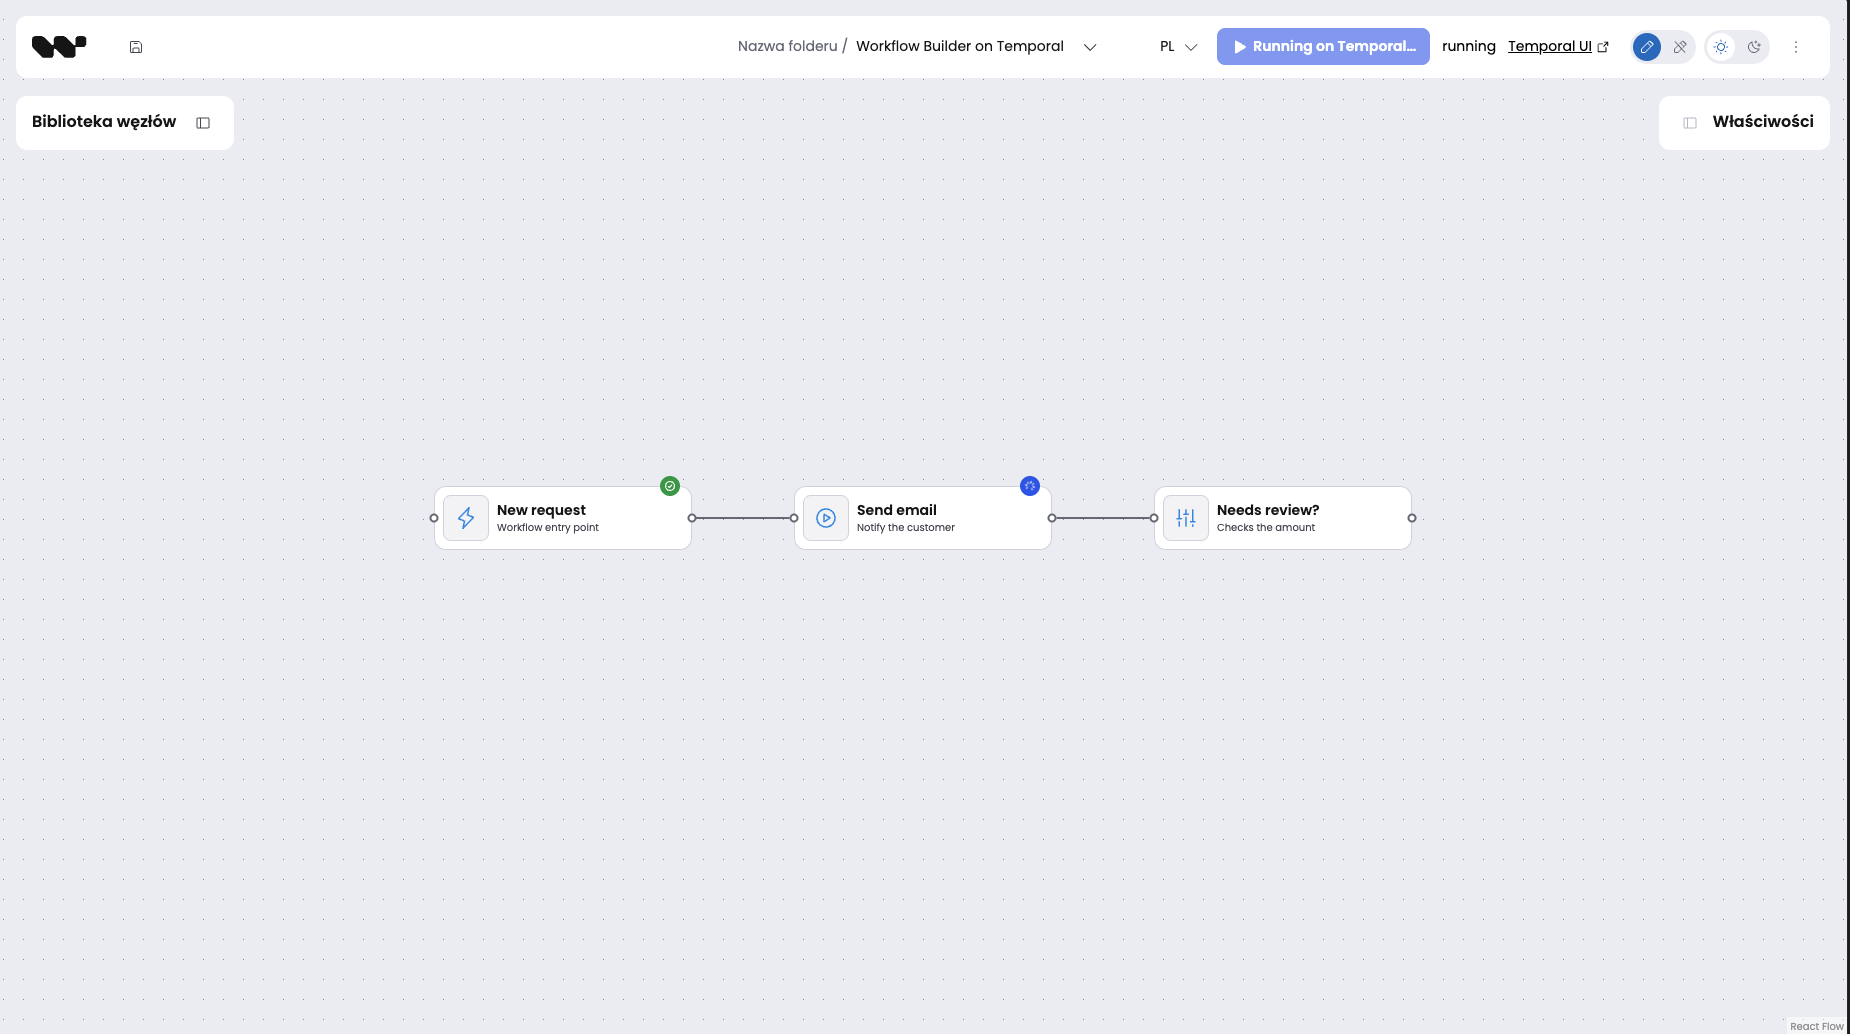
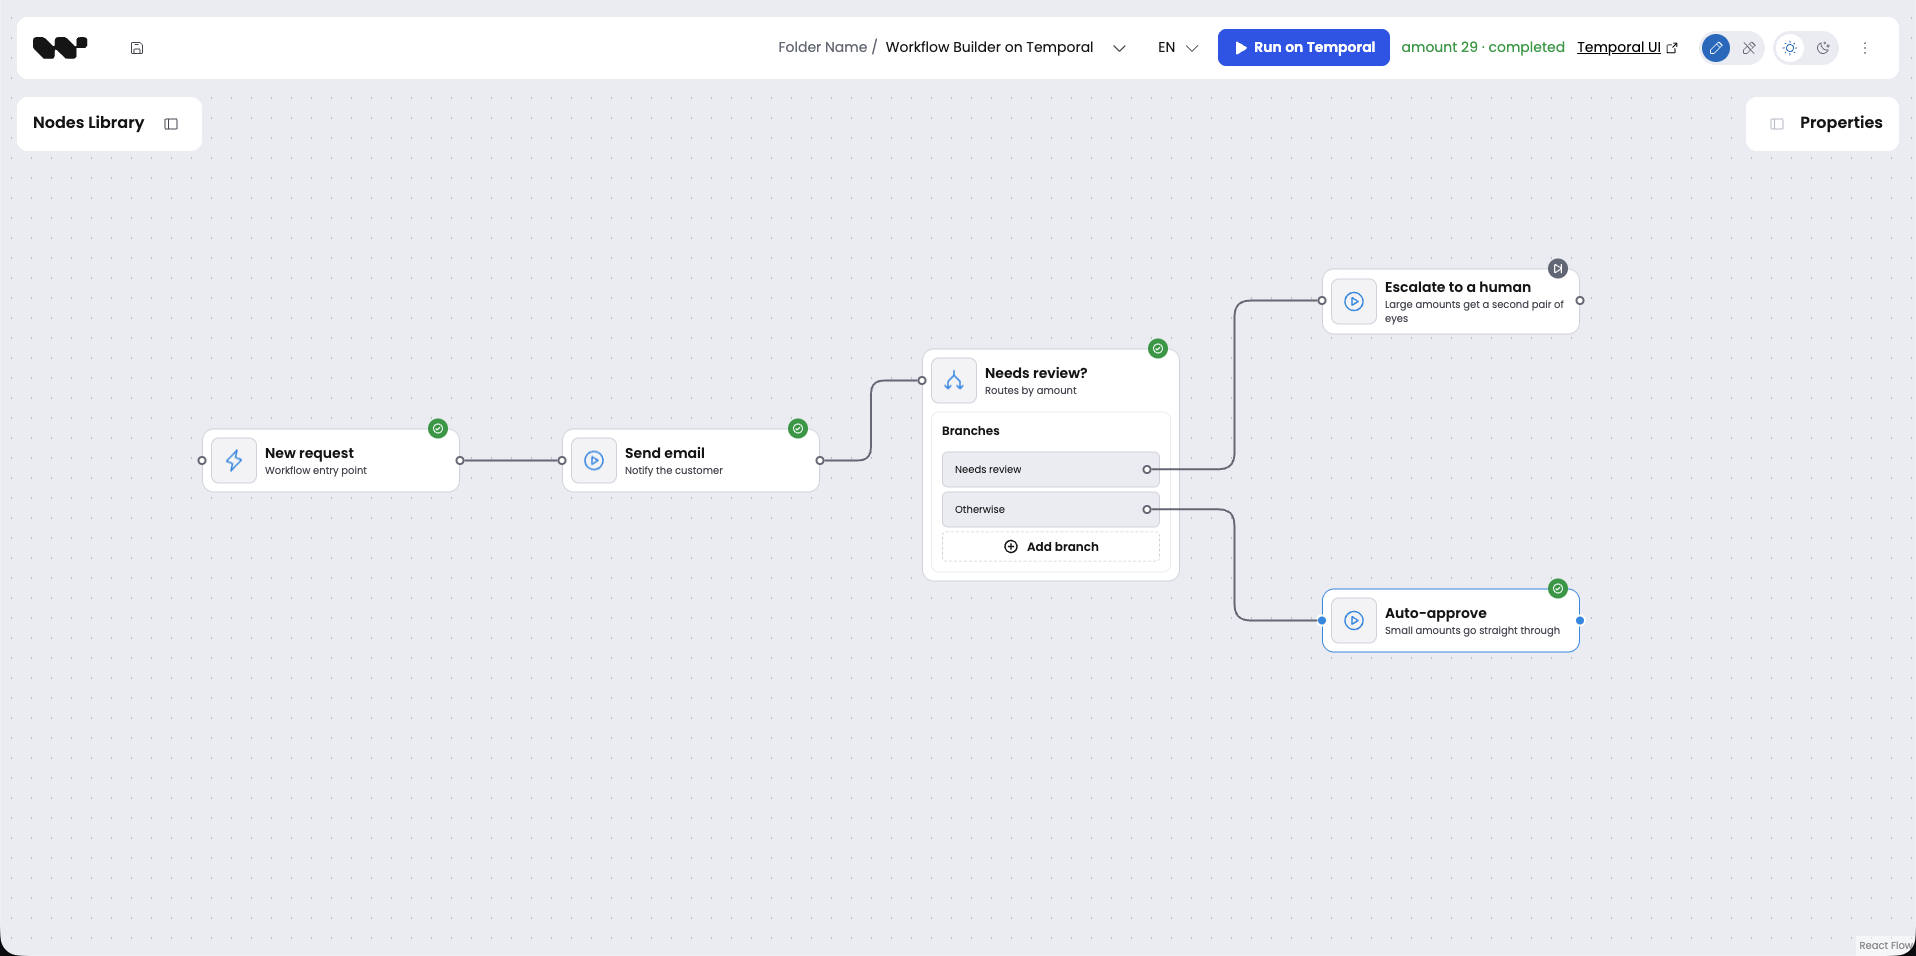
docs(examples): document the decision branch in the Temporal sample README

diff --git a/examples/workflow-builder-temporal/README.md b/examples/workflow-builder-temporal/README.md
@@ -2,7 +2,7 @@
 
 Run a workflow drawn in the Workflow Builder editor as a durable Temporal Workflow Execution: every node becomes an Activity, retries and history come from Temporal, and the canvas shows each node's status live.
 
-This sample wires the [`@workflowbuilder/temporal`](https://www.npmjs.com/package/@workflowbuilder/temporal) plugin into a Temporal Worker and executes a three-node diagram authored in the [Workflow Builder](https://www.workflowbuilder.io) editor. One node fails on its first attempt on purpose, so the retry you see in Event History is a real one. An optional editor lets you change the diagram and watch nodes light up while Temporal runs them.
+This sample wires the [`@workflowbuilder/temporal`](https://www.npmjs.com/package/@workflowbuilder/temporal) plugin into a Temporal Worker and executes a five-node diagram authored in the [Workflow Builder](https://www.workflowbuilder.io) editor. One node fails on its first attempt on purpose, so the retry you see in Event History is a real one, and a decision node routes each run down one of two branches while the other is pruned. An optional editor lets you change the diagram and watch nodes light up while Temporal runs them.
 
 ![Nodes lighting up in the editor while Temporal runs the flow](docs/editor-run.png)
 
@@ -10,7 +10,7 @@ This sample wires the [`@workflowbuilder/temporal`](https://www.npmjs.com/packag
 
 ```
 editor (browser, optional)  --POST canvas snapshot-->  worker + bridge (npm start)  -->  Temporal (temporal server start-dev)
-        ^                                                     |  executors: trigger, action, condition
+        ^                                                     |  executors: trigger, action, decision
         +----------- SSE: node events ------------------------+  store: prints events, streams them to the editor
 
 npm run workflow  ---- reads src/diagram.json, starts one run, waits for it ---->  Temporal
@@ -19,7 +19,11 @@ npm run workflow  ---- reads src/diagram.json, starts one run, waits for it ----
 The diagram:
 
 ```
-New request (trigger)  -->  Send email (action, fails once on purpose)  -->  Needs review? (condition: amount > 100)
+New request (trigger)
+  -->  Send email (action, simulates an outage on its first attempt)
+  -->  Needs review? (decision)
+         |-- "Needs review"  {{nodes.trigger-1.amount}} isGreaterThan 100 -->  Escalate to a human (action)
+         '-- "Otherwise"     no conditions ---------------------------------->  Auto-approve (action)
 ```
 
 ## Prerequisites
@@ -57,7 +61,8 @@ worker polling task queue "workflow-execution" on 127.0.0.1:7233
 bridge listening on http://127.0.0.1:3210
 ```
 
-Terminal 3, one run of the diagram:
+Terminal 3, one run of the diagram. Each run draws an amount between 1 and 200, and the decision node
+routes on it, so about half the runs take each branch:
 
 ```bash
 npm run workflow
@@ -66,28 +71,46 @@ npm run workflow
 Expected in terminal 3:
 
 ```
-started execution-74ef6654-b27c-4585-81fd-212ed1a3720a
-watch it: http://localhost:8233/namespaces/default/workflows/execution-74ef6654-b27c-4585-81fd-212ed1a3720a
+amount 130
+started execution-878ca8cc-44f8-44a9-a1a9-bb80faa12c76
+watch it: http://localhost:8233/namespaces/default/workflows/execution-878ca8cc-44f8-44a9-a1a9-bb80faa12c76
 run completed
 ```
 
-Expected in terminal 2, the store printing what the workflow emitted. Temporal's own `Activity failed` warning for the first attempt appears between lines 4 and 5:
+Expected in terminal 2, the store printing what the workflow emitted. Temporal's own `Activity failed`
+warning for the first attempt appears between lines 4 and 5, and the `decision-1` config line is long
+because it carries the branches as authored:
 
 ```
-[74ef6654] # 1 execution_started {"workflowId":"workflow-builder-temporal-sample"}
-[74ef6654] # 2 node_started (trigger-1) {"config":{"description":"Workflow entry point","status":"active"},"visibleNodeIds":[]}
-[74ef6654] # 3 node_completed (trigger-1) {"output":{"amount":250,"customer":"Ada"}}
-[74ef6654] # 4 node_started (action-1) {"config":{"description":"Notify the customer","status":"active","message":"Thanks for reaching out - we are on it!"},"visibleNodeIds":["trigger-1"]}
-[74ef6654] # 5 node_completed (action-1) {"output":{"delivered":true,"attempt":2,"message":"Thanks for reaching out - we are on it!"}}
-[74ef6654] # 6 node_started (condition-1) {"config":{"description":"Checks the amount","status":"active","condition":"amount > 100"},"visibleNodeIds":["trigger-1","action-1"]}
-[74ef6654] # 7 node_completed (condition-1) {"output":{"expression":"amount > 100","matched":true}}
-[74ef6654] # 8 execution_completed
-[74ef6654] status completed
+[878ca8cc] # 1 execution_started {"workflowId":"workflow-builder-temporal-sample"}
+[878ca8cc] # 2 node_started (trigger-1) {"config":{"description":"Workflow entry point","status":"active"},"visibleNodeIds":[]}
+[878ca8cc] # 3 node_completed (trigger-1) {"output":{"amount":130,"customer":"Ada"}}
+[878ca8cc] # 4 node_started (action-1) {"config":{"description":"Notify the customer","status":"active","message":"Thanks for reaching out - we are on it!","simulateOutage":true},"visibleNodeIds":["trigger-1"]}
+[878ca8cc] # 5 node_completed (action-1) {"output":{"delivered":true,"attempt":2,"message":"Thanks for reaching out - we are on it!"}}
+[878ca8cc] # 6 node_started (decision-1) {"config":{"description":"Routes by amount","status":"active","decisionBranches":[...]},"visibleNodeIds":["trigger-1","action-1"]}
+[878ca8cc] # 7 node_completed (decision-1) {"output":{"branch":"Needs review","sourceHandle":"source:inner:review"}}
+[878ca8cc] # 8 node_skipped (action-3) {"reason":"branch_not_taken"}
+[878ca8cc] # 9 node_started (action-2) {"config":{"description":"Large amounts get a second pair of eyes","status":"active","message":"Flagged for manual review","simulateOutage":false},"visibleNodeIds":["trigger-1","action-1","decision-1"]}
+[878ca8cc] #10 node_completed (action-2) {"output":{"delivered":true,"attempt":1,"message":"Flagged for manual review"}}
+[878ca8cc] #11 execution_completed
+[878ca8cc] status completed
+```
+
+Only `Send email` carries `"attempt":2`: it is the one node with the outage switch on. Run it again
+until the amount comes out at 100 or below, and lines 7 to 10 take the other branch instead:
+
+```
+[734af0c9] # 7 node_completed (decision-1) {"output":{"branch":"Otherwise","sourceHandle":"source:inner:otherwise"}}
+[734af0c9] # 8 node_skipped (action-2) {"reason":"branch_not_taken"}
+[734af0c9] # 9 node_started (action-3) {"config":{"description":"Small amounts go straight through","status":"active","message":"Approved automatically","simulateOutage":false},"visibleNodeIds":["trigger-1","action-1","decision-1"]}
+[734af0c9] #10 node_completed (action-3) {"output":{"delivered":true,"attempt":1,"message":"Approved automatically"}}
 ```
 
 ## What you will see in Temporal UI
 
-Open the `watch it:` link. The run is one Workflow Execution. Each node is an Activity named after its label, because the plugin sets the node's label as the activity summary. Click `Send email`: attempt 1 failed with `mail_server_busy`, attempt 2 succeeded. The retry is Temporal's, governed by the plugin's default node profile (10 minutes, 2 attempts), not by anything in this sample.
+Open the `watch it:` link. The run is one Workflow Execution. Each node is an Activity named after its label, because the plugin sets the node's label as the activity summary. Click `Send email`: attempt 1 failed with `mail_server_busy`, attempt 2 succeeded. The retry is Temporal's, governed by the plugin's default node profile (10 minutes, 2 attempts), not by anything in this sample. The Workflow input carries the amount the run was given.
+
+The pruned branch leaves no trace here: there is an Activity for `Escalate to a human` and none at all for `Auto-approve`, because the workflow decided against that branch and never scheduled it.
 
 ![The Send email activity with two attempts](docs/temporal-ui-retry.png)
 
@@ -101,19 +124,28 @@ npm install
 npm run dev
 ```
 
-Open the printed URL (Vite defaults to <http://localhost:5173>). The editor opens with the same diagram. Click **Run on Temporal** in the top bar: each node shows a spinner while its Activity runs, then a check. `Send email` spins through both attempts. The **Temporal UI** link opens the run.
+Open the printed URL (Vite defaults to <http://localhost:5173>). The editor opens with the same diagram. Click **Run on Temporal**: the amount is drawn for that run and shown beside the button. Each node shows a spinner while its Activity runs, then a check; `Send email` spins through both attempts, and the branch that was not taken turns grey. Run it a few times and the grey node swaps sides. The **Temporal UI** link opens the run.
 
-Then change things. Edit the message, set the condition to `amount > 1000` and see `matched: false` in the worker terminal, add a second Action from the palette. The editor keeps your edits in `localStorage`; reload to keep them, clear site data to get the original diagram back.
+Then change things. Edit a message, turn the outage switch on for another action, select **Needs review?** and edit its branches in the properties panel, or add a node from the palette.
+
+The editor keeps your edits in `localStorage` and saves again when the page closes, so editing `src/diagram.json` afterwards appears to do nothing. To go back to the file, run this in the browser console and let the page reload:
+
+```js
+addEventListener('beforeunload', (event) => event.stopImmediatePropagation(), { capture: true });
+localStorage.removeItem('workflowBuilderDiagram');
+location.reload();
+```
 
 ## How it works
 
-Five places carry the whole integration. Each has a comment where the reason is not visible in the code.
+Six places carry the whole integration. Each has a comment where the reason is not visible in the code.
 
 1. [`src/workflows.ts`](src/workflows.ts) re-exports `runWorkflow`. Temporal bundles workflow code from one module, so a plugin cannot register its workflow for you; the re-export is how the bundle picks it up.
 2. [`src/worker.ts`](src/worker.ts) creates `WorkflowBuilderPlugin({ executors, store })` and hands it to `Worker.create`. The plugin contributes the activities that execute a graph. Connection, task queue, and shutdown stay yours.
 3. [`src/executors.ts`](src/executors.ts) is one function per node type. Executors run inside the plugin's `executeNode` Activity, which is why `action` can read Temporal's attempt number and why throwing `TransientNodeExecutionError` gets it retried while `PermanentNodeExecutionError` does not.
-4. [`src/store.ts`](src/store.ts) implements the store port: where events and status changes land. Here they go to the terminal and to the editor's event stream. In your application they go to a database; the port is the same.
-5. [`src/to-definition.ts`](src/to-definition.ts) turns the editor's snapshot into the plugin's `WorkflowDefinition`. The plugin knows nothing about React Flow; this file is the only glue.
+4. [`src/evaluate-branches.ts`](src/evaluate-branches.ts) picks a branch, and the decision executor returns its handle as `nextPort`. That is what makes the graph branch: the runner fires only the edge whose handle matches, marks the rest `node_skipped`, and if a named port has no edge at all the run ends `incomplete` rather than failing. The first branch whose conditions all hold wins, and a branch with no conditions always holds, so it belongs last. (The reference worker in the Workflow Builder repository never matches an empty branch; this sample prefers the rule you can read off the canvas.)
+5. [`src/store.ts`](src/store.ts) implements the store port: where events and status changes land. Here they go to the terminal and to the editor's event stream. In your application they go to a database; the port is the same.
+6. [`src/to-definition.ts`](src/to-definition.ts) turns the editor's snapshot into the plugin's `WorkflowDefinition`. The plugin knows nothing about React Flow; this file is the only glue.
 
 [`src/client.ts`](src/client.ts) starts a run through `TemporalWorkflowEngine` from `@workflowbuilder/temporal/client` and then waits on an ordinary Temporal workflow handle. [`src/bridge.ts`](src/bridge.ts) does the same for the editor over HTTP and streams the store's events back as Server-Sent Events.
 
@@ -122,6 +154,8 @@ Five places carry the whole integration. Each has a comment where the reason is 
 - **Add a node type.** Add a palette item under `editor/src/nodes/` and register it in `editor/src/nodes/index.ts`; add a variant to `SampleNode` in `src/nodes.ts` and an executor in `src/executors.ts`. TypeScript refuses to compile until the executor exists.
 - **Tune retries per node type.** Replace the re-export in `src/workflows.ts` with `createRunWorkflow({ nodeActivityProfiles })` and pass the same map to the plugin. The plugin README explains why both sides need it.
 - **Point at Temporal Cloud.** `TEMPORAL_ADDRESS`, `TEMPORAL_NAMESPACE`, and `TEMPORAL_UI_ORIGIN` are read in `src/config.ts`. TLS and API keys go on the two connections in `src/worker.ts` and `src/client.ts`.
+- **Toggle the outage.** Every Action has a _Simulate an outage on the first attempt_ switch. Turn it on for `Auto-approve` and that node retries too.
+- **Add a branch.** Select **Needs review?**, add a branch on the node or in the properties panel, give it a title and conditions, then drag its new handle to a node. Keep the branch with no conditions last, or it swallows every run.
 - **Persist events.** Replace `createRunStore()` with anything that implements `ExecutionStore`.
 
 ## Learn more
